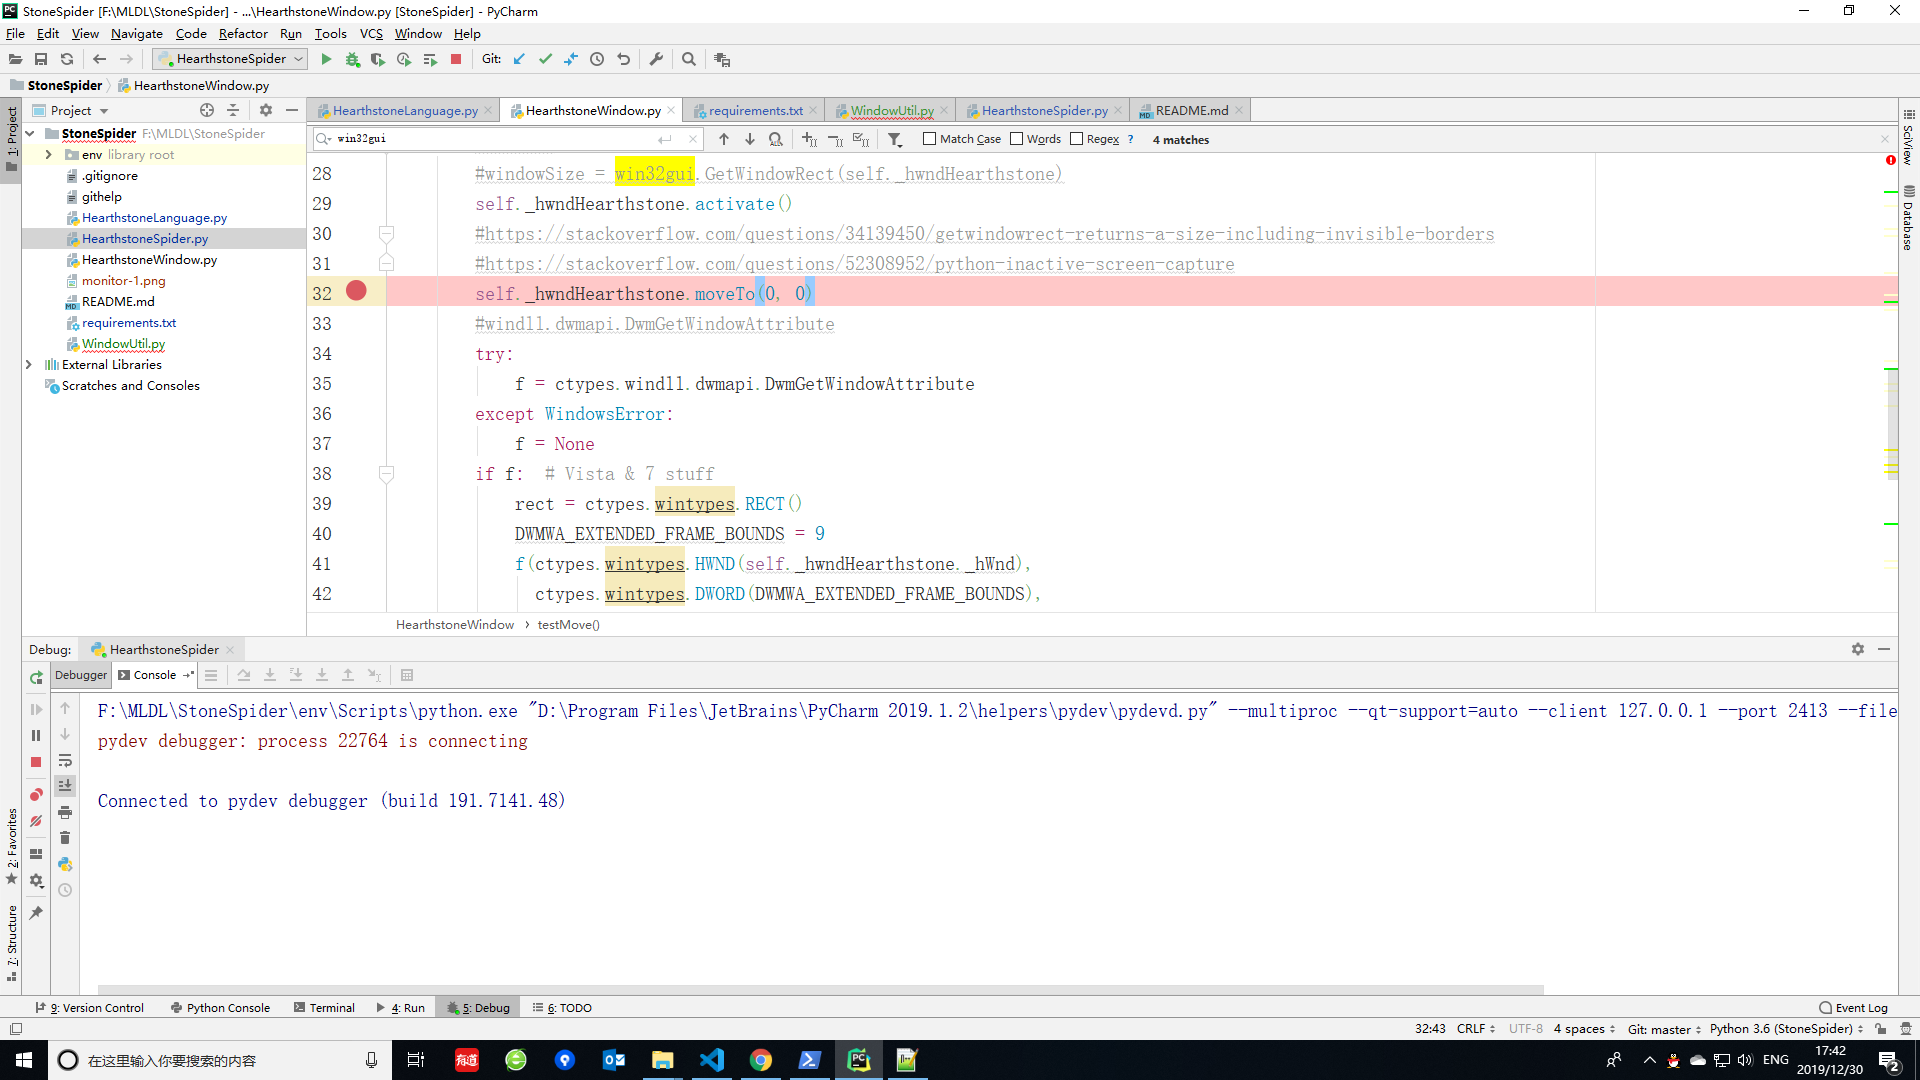
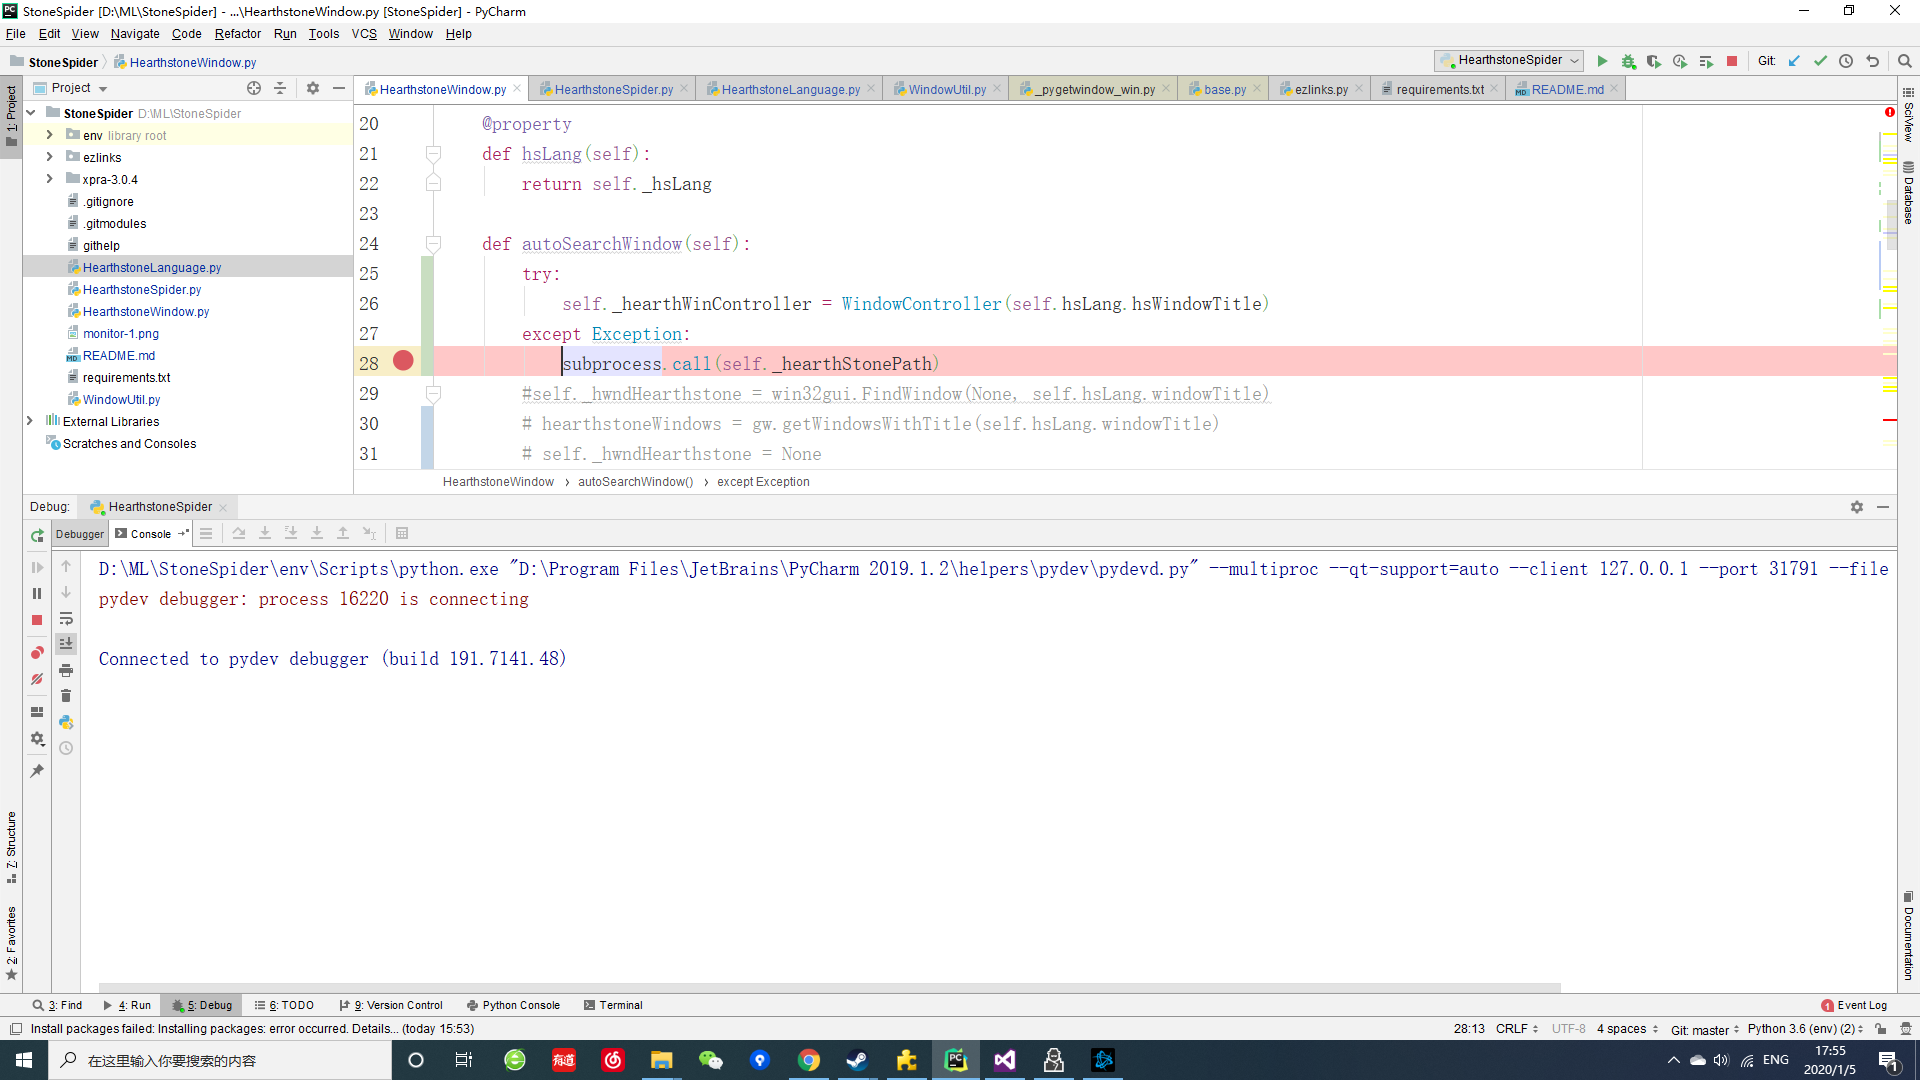
update hearthstone window

diff --git a/HearthstoneWindow.py b/HearthstoneWindow.py
@@ -1,28 +1,52 @@
 #!/usr/bin/env python
 # -*- coding: utf-8 -*-
 
-import win32gui
 import pygetwindow as gw
-#from ctypes import *
 import ctypes
+from WindowUtil import WindowController
+import numpy as np
+import cv2
+import subprocess
+from mss import mss
+from PIL import Image
 
 class HearthstoneWindow:
     def __init__(self, hsLang):
         self._hsLang = hsLang
+        self._hearthWinController = None
         self._hwndHearthstone = None
+        self._hearthStonePath = r"D:\Program Files (x86)\Hearthstone\Hearthstone Beta Launcher.exe"
 
     @property
     def hsLang(self):
         return self._hsLang
 
     def autoSearchWindow(self):
+        try:
+            self._hearthWinController = WindowController(self.hsLang.hsWindowTitle)
+        except Exception:
+            subprocess.call(self._hearthStonePath)
         #self._hwndHearthstone = win32gui.FindWindow(None, self.hsLang.windowTitle)
-        hearthstoneWindows = gw.getWindowsWithTitle(self.hsLang.windowTitle)
-        self._hwndHearthstone = None
-        for hsWindow in hearthstoneWindows:
-            if hsWindow.title == self.hsLang.windowTitle:
-                self._hwndHearthstone = hsWindow
+        # hearthstoneWindows = gw.getWindowsWithTitle(self.hsLang.windowTitle)
+        # self._hwndHearthstone = None
+        # for hsWindow in hearthstoneWindows:
+        #     if hsWindow.title == self.hsLang.windowTitle:
+        #         self._hwndHearthstone = hsWindow
+        #         break
+
+    def mainLoop(self):
+        while True:
+            screenShot = self._hearthWinController.takeScreenshot()
+            self.analyzeScreenShot(screenShot)
+            if (cv2.waitKey(1) & 0xFF) == ord('q'):
+                cv2.destroyAllWindows()
                 break
+
+    def analyzeScreenShot(self, screenShot):
+        cv2.imshow('test', np.array(screenShot))
+
+
+
 
     def testMove(self):
         #windowSize = win32gui.GetWindowRect(self._hwndHearthstone)

diff --git a/WindowUtil.py b/WindowUtil.py
@@ -1,7 +1,9 @@
 #!/usr/bin/env python
 # -*- coding: utf-8 -*-
-
+import pygetwindow
 import ctypes
+import win32gui
+import mss, mss.tools
 
 class WindowInfo:
     def __init__(self, windowRect):
@@ -54,3 +56,52 @@ class WindowUtil:
         windowInfo = WindowInfo(rect)
 
         return windowInfo
+
+class WindowController:
+    def __init__(self, programWinTitle):
+        winTitles = pygetwindow.getWindowsWithTitle(programWinTitle)
+        targetWinTitle = None
+        for winTitle in winTitles:
+            if programWinTitle == winTitle.title:
+                targetWinTitle = winTitle
+                break
+
+        if targetWinTitle == None:
+            raise Exception(programWinTitle+" could not be found...")
+        else:
+            self._targetWinTitle = targetWinTitle
+            self._hwnd = targetWinTitle._hWnd
+            self._windowInfo = None
+
+    @property
+    def hwnd(self):
+        return self._hwnd
+
+    @property
+    def windowInfo(self):
+        return self._windowInfo
+
+    def bringToFront(self):
+        self._targetWinTitle.restore()
+        win32gui.BringWindowToTop(self.hwnd)
+        win32gui.SetForegroundWindow(self.hwnd)
+
+    def refreshWindowRect(self):
+        self._windowInfo = WindowUtil.getWindowInfo(self.hwnd)
+
+    def takeScreenshot(self):
+        self.refreshWindowRect()
+        self.bringToFront()
+
+        screenShot = None
+        with mss.mss() as sct:
+            screenShot = sct.grab({
+                'left': self.windowInfo.left, 'top': self.windowInfo.top,
+                'width': self.windowInfo.width, 'height': self.windowInfo.height
+            })
+
+        return screenShot
+
+
+
+

diff --git a/HearthstoneLanguage.py b/HearthstoneLanguage.py
@@ -9,14 +9,18 @@ class Language(Enum):
 
 
 class HearthstoneLang:
-    def __init__(self, language):
-        self._language = language
-        self._windowTitles = {Language.Chinese:'炉石传说', Language.English:'Hearthstone'}
-        self._thisWindowTitle = self._windowTitles.get(self._language, 'not supported language')
+    def __init__(self, hsLang, battleNetLang = Language.Chinese):
+        self._hsLang = hsLang
+        self._hsWindowTitles = {Language.Chinese: '炉石传说', Language.English: 'Hearthstone'}
+        self._thisHsWindowTitle = self._hsWindowTitles.get(self._hsLang, 'not supported language')
+
+        self._battleNetLang = battleNetLang
+        self._battleNetWindowTitles = {Language.Chinese:'暴雪战网', Language.English:'Blizzard Battle.net'}
+        self._thisBattleNetWindowTitle = self._battleNetWindowTitles.get(self._battleNetLang, 'not supported language')
 
     @property
-    def windowTitle(self):
-        return self._thisWindowTitle
+    def hsWindowTitle(self):
+        return self._thisHsWindowTitle
 
 
     # @property

diff --git a/GameState.py b/GameState.py
@@ -1,0 +1,34 @@
+#!/usr/bin/env python
+# -*- coding: utf-8 -*-
+
+from enum import Enum
+import networkx
+import treelib
+
+graph = networkx.Graph()
+graph.add_edge()
+
+class GameStatus(Enum):
+    NotStart = 1
+    BattleNet = 2
+    Welcome = 3
+    BattleMode = 4
+    AdventureMode = 5
+
+
+class GameState:
+    def __init__(self):
+        pass
+
+class GameMachine:
+    def __init__(self):
+        self._nodes = {}
+        self._gameTree = treelib.Tree()
+        gameRoot = self._gameTree.create_node('Root', 'Root')
+        self._gameTree.create_node('NotStart', 'NotStart', parent=gameRoot)
+        self._gameTree.create_node('BattleNet', 'BattleNet', parent=gameRoot)
+        hearthstone = self._gameTree.create_node('Hearthstone', 'Hearthstone', parent=gameRoot)
+        self._gameTree.create_node('Welcome', 'Welcome', parent=hearthstone)
+        self._gameTree.create_node('BattleMode', 'BattleMode', parent=hearthstone)
+        self._gameTree.create_node('AdventureMode', 'AdventureMode', parent=hearthstone)
+

diff --git a/HearthstoneSpider.py b/HearthstoneSpider.py
@@ -15,4 +15,5 @@ if __name__ == "__main__":
     hslang = HearthstoneLanguage.HearthstoneLang(language)
     hsWindow = HearthstoneWindow.HearthstoneWindow(hslang)
     hsWindow.autoSearchWindow()
-    hsWindow.testMove()
+    hsWindow.mainLoop()
+    #hsWindow.testMove()

diff --git a/README.md b/README.md
@@ -21,8 +21,10 @@
 
 ## 安装指南：
 pip3 install  -i https://pypi.tuna.tsinghua.edu.cn/simple -r requirements.txt
-
 # Ref link:
+https://github.com/keon/algorithms.git
+https://github.com/caesar0301/treelib.git
+https://github.com/networkx/networkx.git
 https://github.com/qiueer/autoops_for_win
 https://github.com/asweigart/PyGetWindow
 https://github.com/opencv/opencv
